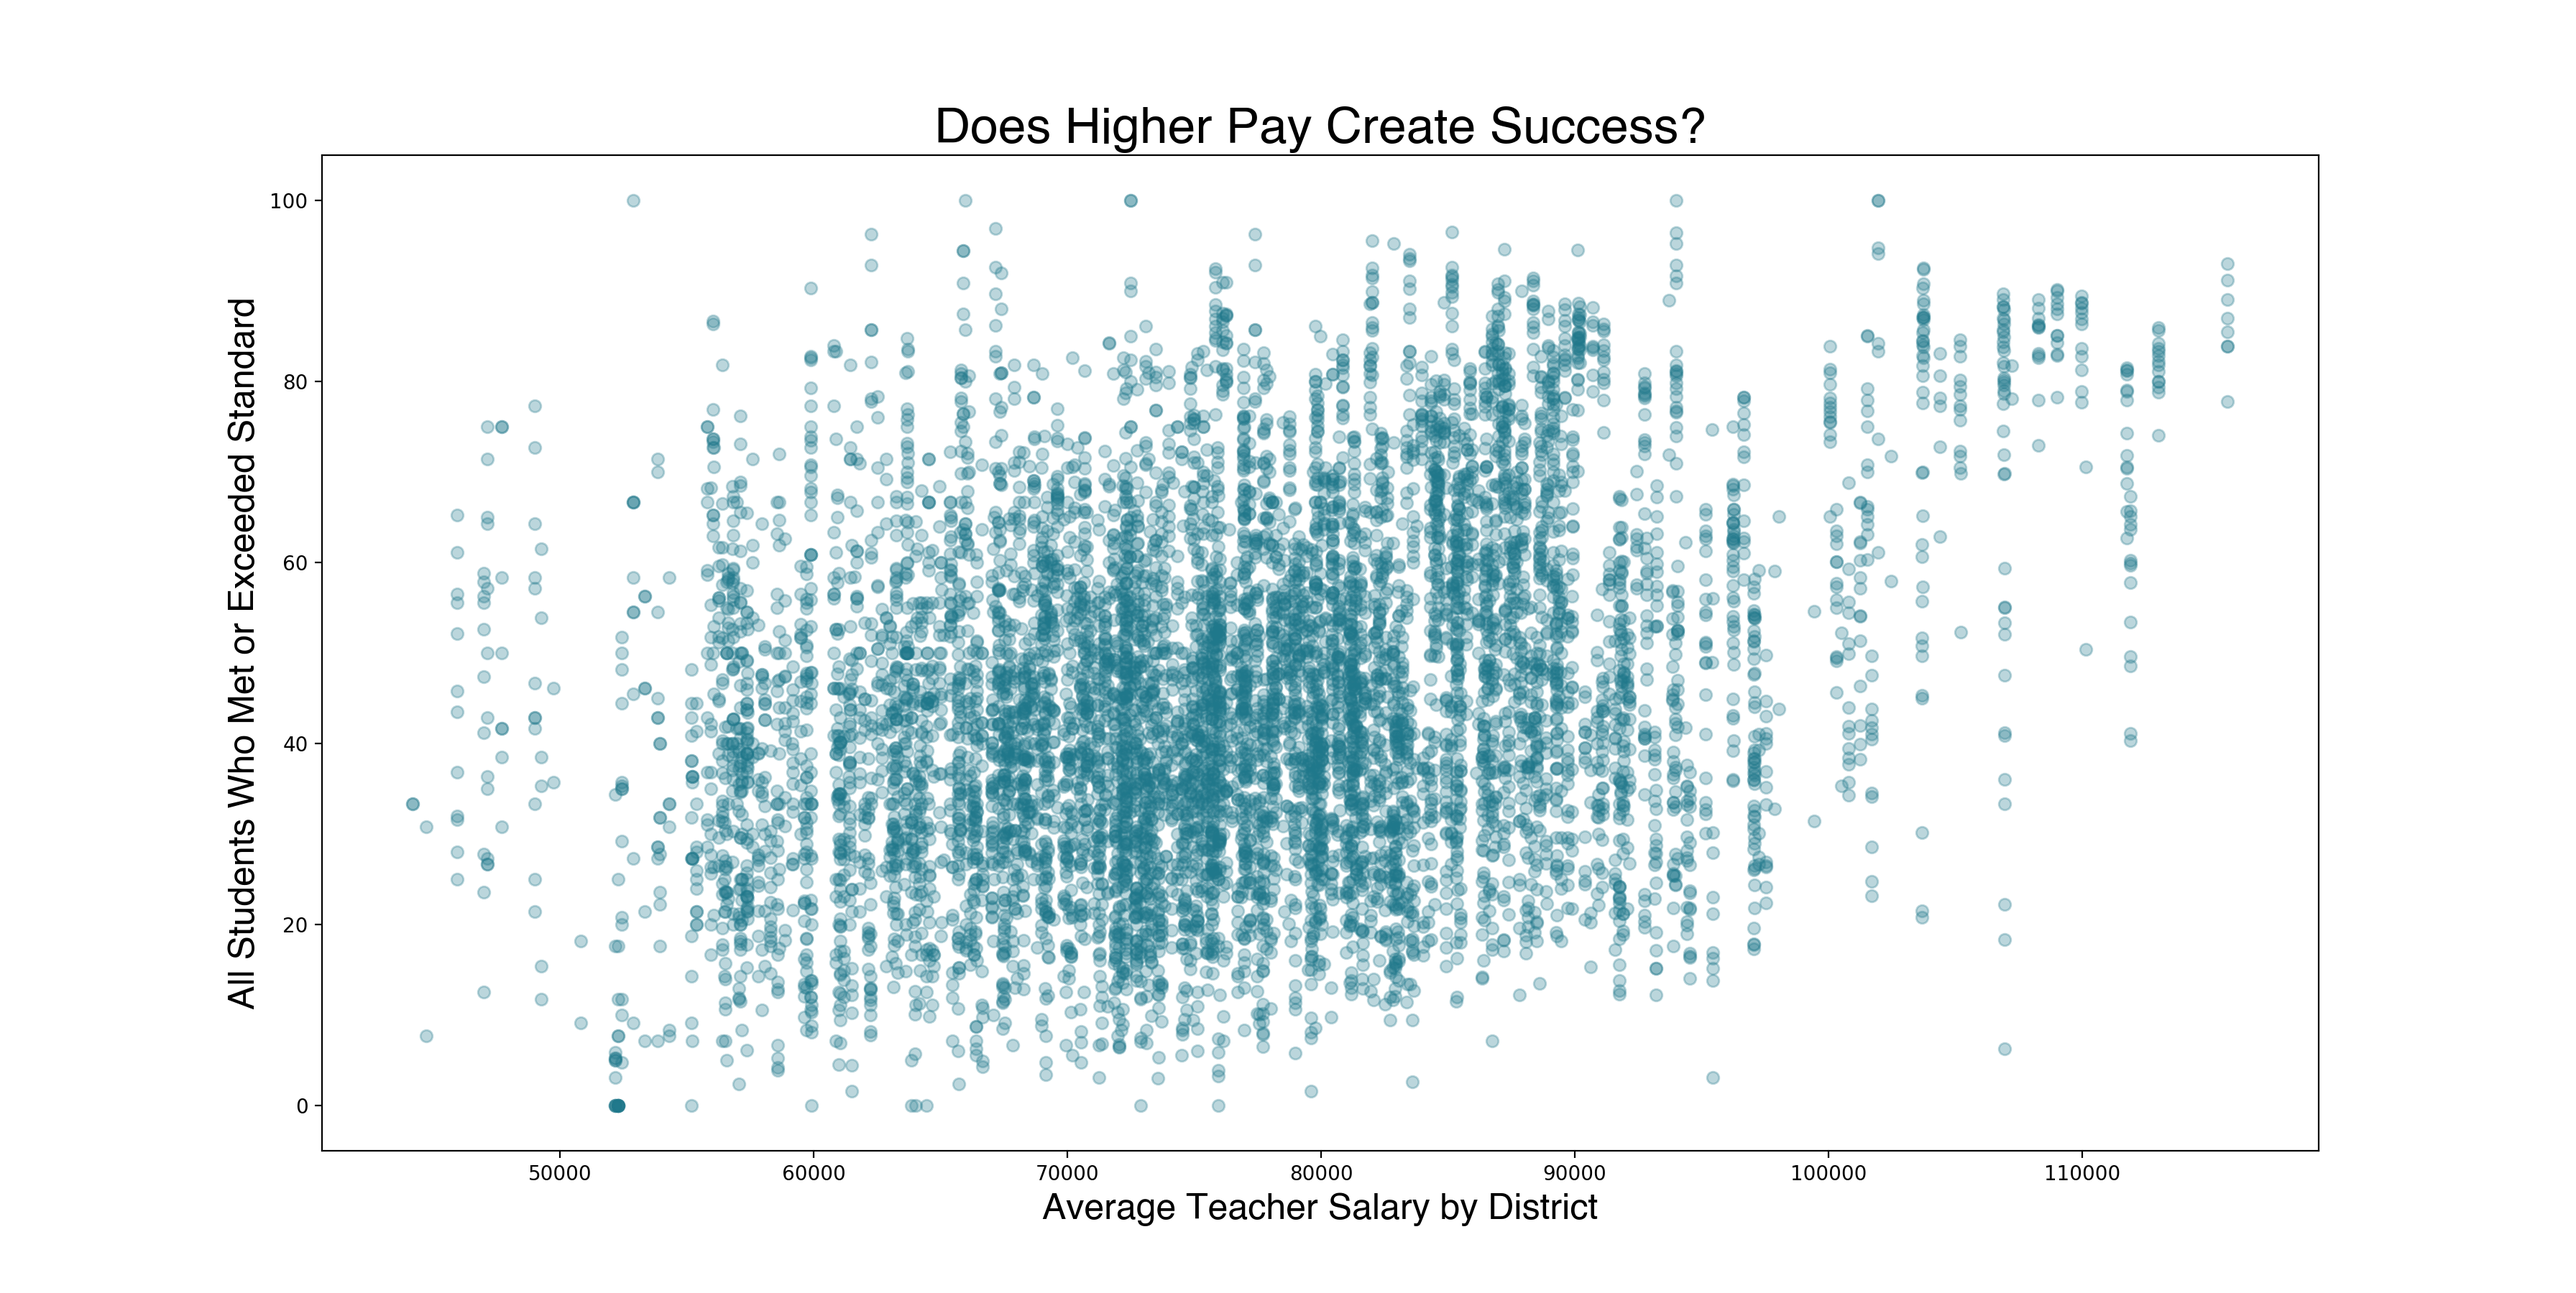
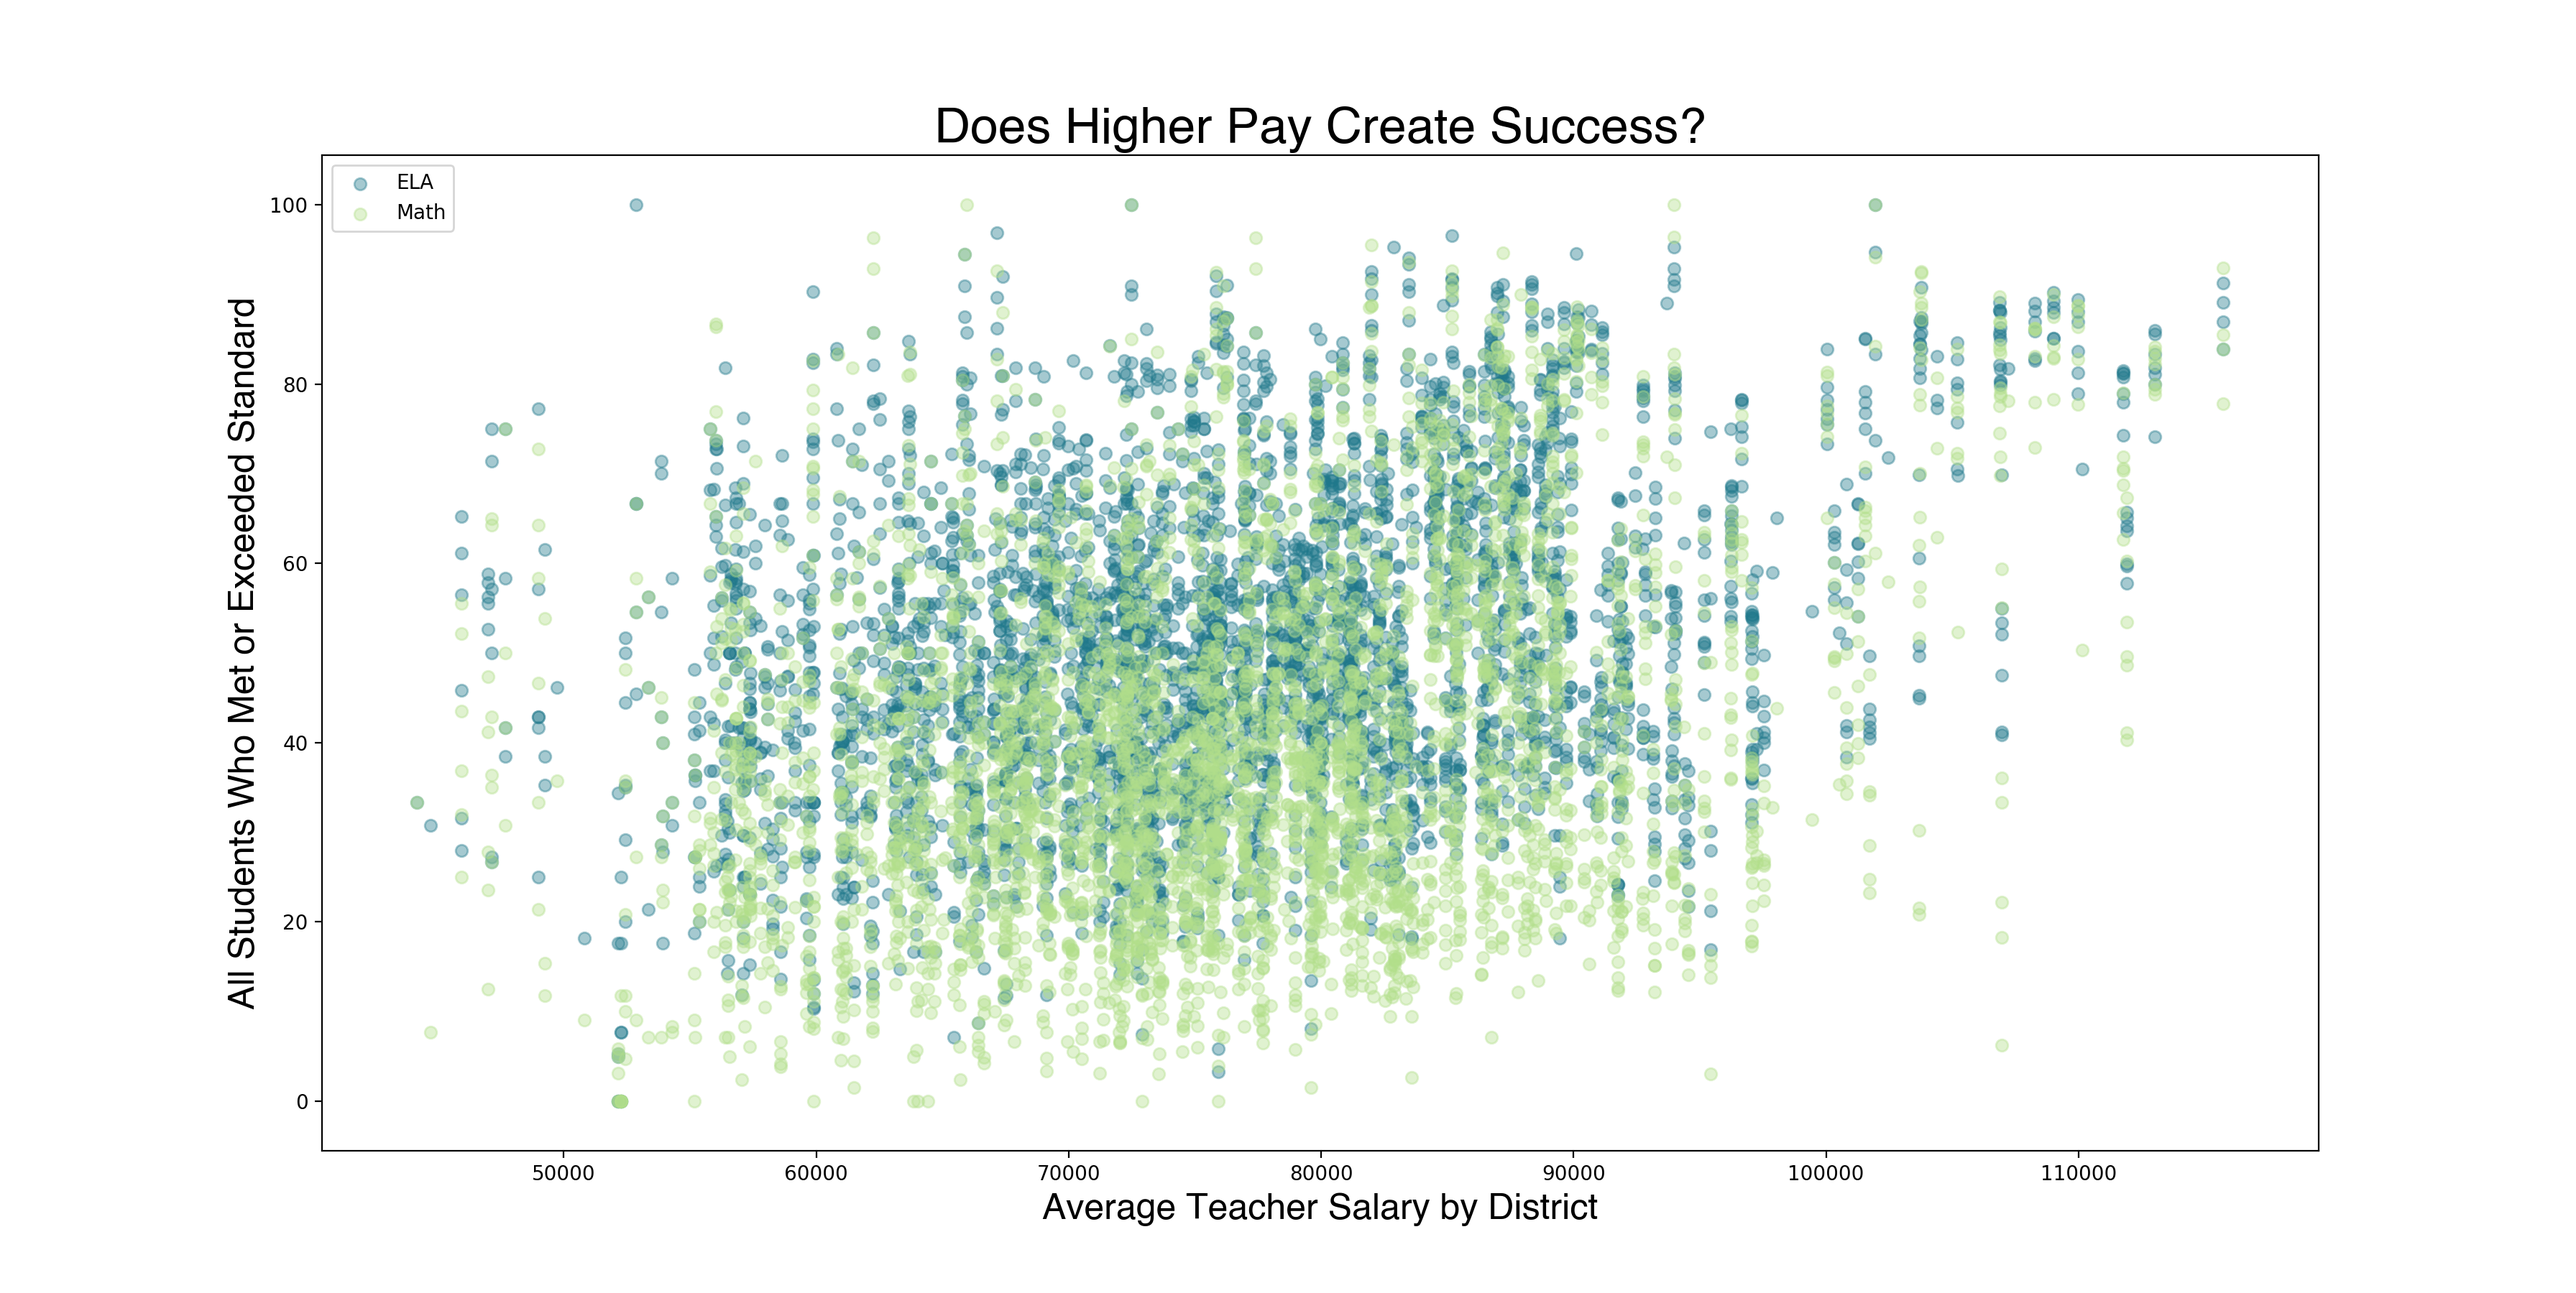
Updating images

diff --git a/src/import_data.py b/src/import_data.py
@@ -5,7 +5,7 @@ import numpy as np
 #---- SBAC DATA
 # Drop * values, choose "all student" subgroup, disregard students > grade 11
 # Look at entire district with School code 0
-sbac = pd.read_csv("../data/sb_ca2019_all_csv_v4.txt")
+sbac = pd.read_csv("./data/sb_ca2019_all_csv_v4.txt")
 sbac = sbac[sbac['Percentage Standard Met and Above'] != '*']
 sbac = sbac[sbac['Subgroup ID'] == 1]
 sbac = sbac[sbac['Grade'] <= 11]
@@ -20,7 +20,7 @@ sbac = sbac[['County Code', 'District Code', 'Grade',
              'Test Id', 'Students Tested', 'Met or Above']].drop_duplicates()
 
 #---- DISTRICT CODES
-district = pd.read_csv("../data/districts.csv")
+district = pd.read_csv("./data/districts.csv")
 district = district[['County Code', 'County Name', 
                      'District Code', 'District Name']].drop_duplicates()
 
@@ -29,7 +29,7 @@ district_sbac = pd.merge(district, sbac, how = 'inner', on = 'District Code')
 
 
 #---- TEACHER CODES
-teacher = pd.read_csv("../data/salary.csv")
+teacher = pd.read_csv("./data/salary.csv")
 teacher["Avg Salary"] = teacher['Average Salary Paid'].str.replace(',','').astype(float)
 
 # Change column name so we can merge with district_sbac table

diff --git a/README.md b/README.md
@@ -1,7 +1,7 @@
-# Capstone 1
+# Salaries and Standards
 
 **Topic:** 
-2019 statewide testing results and teacher salary for California
+2019 statewide testing results for students and teacher salary for California
 
 **Questions to explore** 
 - Do districts with higher salary have higher test scores?
@@ -22,22 +22,22 @@
 **Common Terms**
 - There are 58 Counties in California with over 900 Districts. Each District has their own number of schools and serve anywhere between 596,937 (Los Angeles Unified) to 4 students (Panoche Elementary)
 - Students in grade 3 - 8 and 11 will take both the ELA and Math SBAC (Smarter Balanced Assessment Consortium)
-- Students with special needs will take a modified version, and are not accounted for in this analysis
+- Some students with special needs will take a modified version, and are not accounted for in this analysis
 
 **Data Exploration**
-- Since we do not want to over aggregate our data, so lets look at each District in each County and find the highest average salary offered in that County
+- We will begin by looking at money. 700 district salaries is a lot of for one bar chart, so lets look at each District in each County and find the highest average salary offered in that County. You'll find the median salary running across the middle of the graph so we can see which counties fall above or below that line.
 
-![title](images/maxsalarycounty.png)
+![title](images/salary_bycounty.png)
 
-- We can look at each district's average teacher salary vs the percentage of students who met or exceeded standard in that same district
+- Now let's at a look at each district's average teacher salary vs the percentage of students who met or exceeded standard in that same district.
 
 ![title](images/scatterpay_met.png)
 
-- The above graph is alot - in fact, it is over 8,000 dots! Lets look at each District individually and see how that District's average salary compares to the percentage of students who met or exceeded standard for the whole county
+- The above graph is alot - in fact, it is over 8,000 dots! Lets group each District and look at them individually and see how that District's average salary compares to the percentage of students who met or exceeded standard for the whole county. 
 
 ![title](images/scatterpaybydistrict.png)
 
-- ttest results
+- After examining this graph you can see that as we move along the x-axis the scores do increase, to better understand the correlation  but I'm wondering how much it will change and 
 *image 
 
 - Lets seperate out the top paying districts from the bottom paying districts by splitting them at the Median and see how their students perform on both ELA and Math tests
